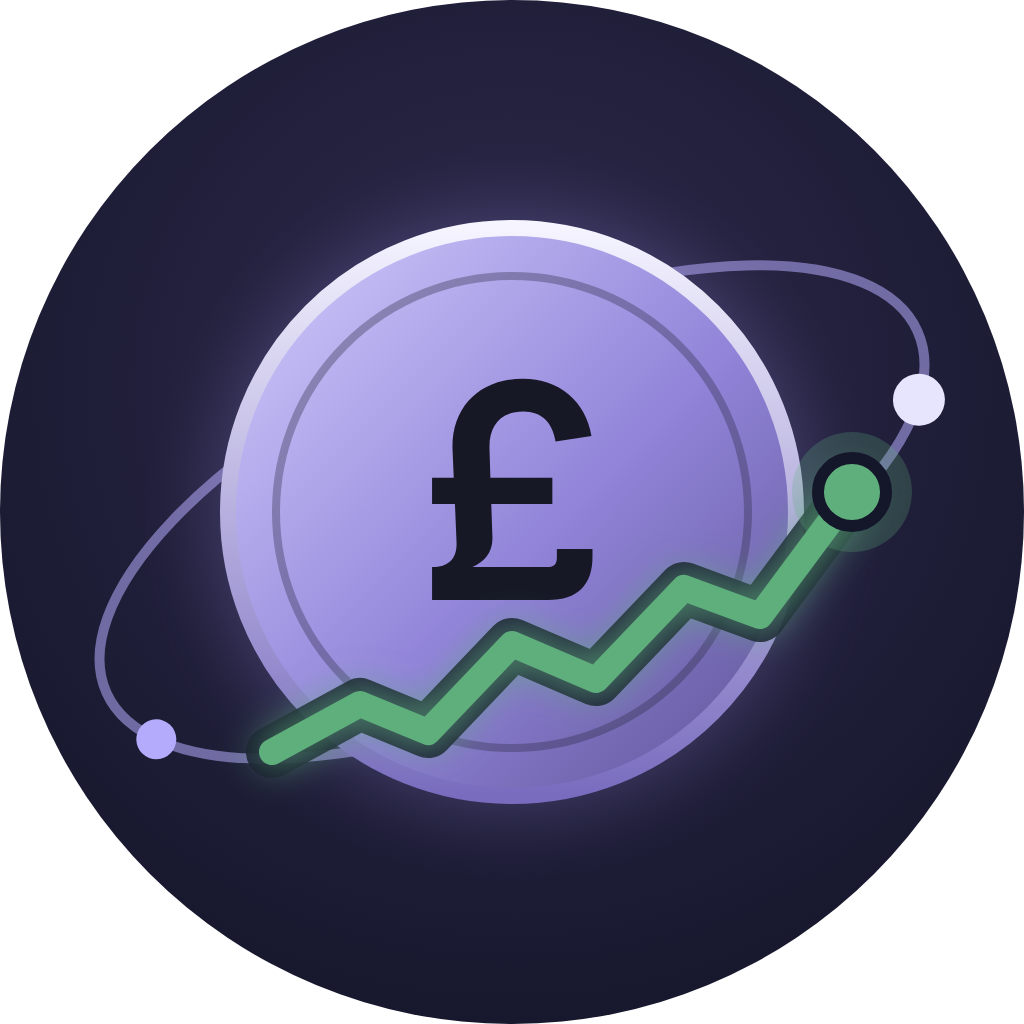
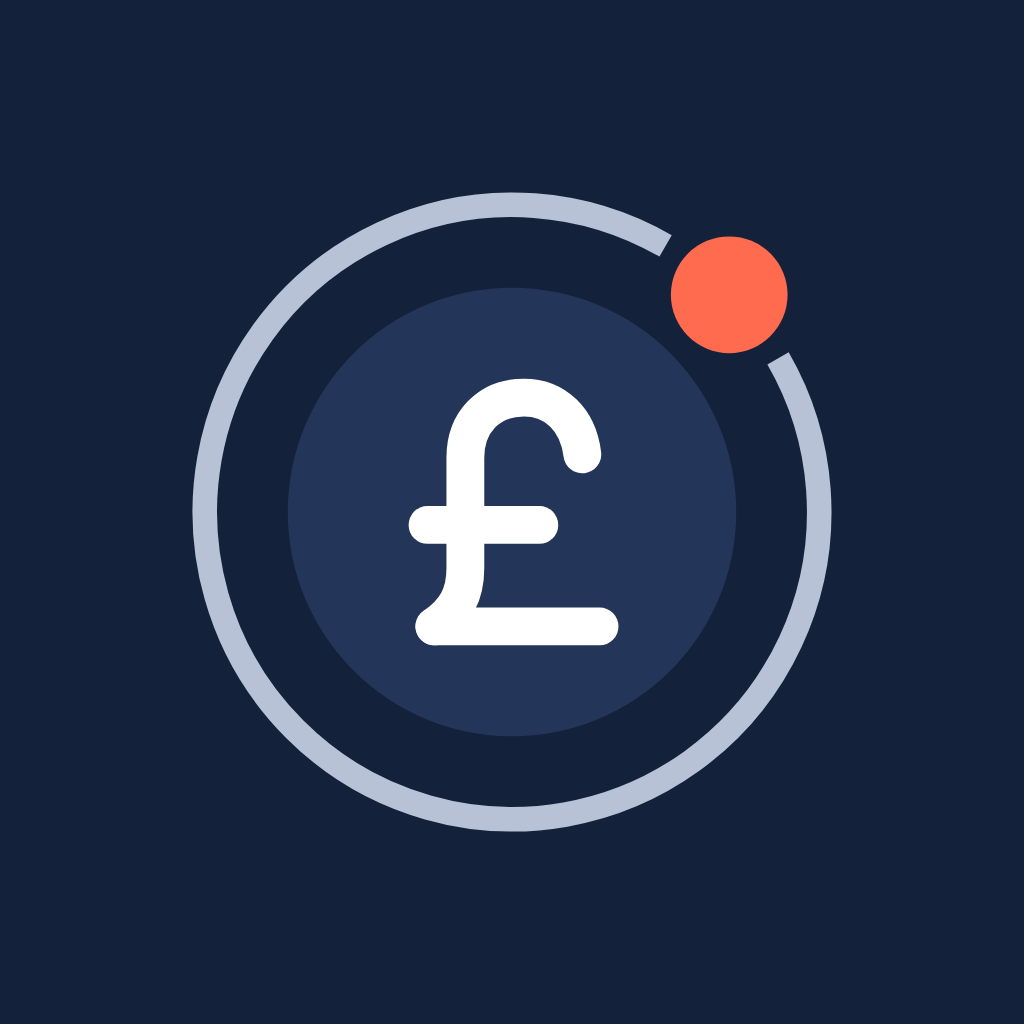
MA-103: 1c Watcher becomes the MyPaisa mark, animated on the README
docs/mark.svg and its dark, icon, small and animated versions replace the Nocturne mark; mark-1024/256/64.png are rendered from mark-icon.svg for the bot's Telegram picture; the README header plays the intro once (dark version under GitHub's dark theme). decision.md records the pick. The Claude Design screens carry the new mark.

diff --git a/README.md b/README.md
@@ -1,6 +1,9 @@
 <div align="center">
 
-<img src="docs/mark.svg" width="96" height="96" alt="The MyPaisa Agent mark">
+<picture>
+  <source media="(prefers-color-scheme: dark)" srcset="docs/mark-animated-dark.svg">
+  <img src="docs/mark-animated.svg" width="96" height="96" alt="The MyPaisa mark: a navy coin with a pound sign, a thin orbit around it, and one coral dot keeping watch">
+</picture>
 
 # MyPaisa Agent
 
@@ -89,7 +92,7 @@ Today: the three documents above and `docs/mark.svg`. After phase 1, by `PLAN.md
 | `tests/` | pytest: golden files for every signal, property tests for the FX split, moto for AWS, respx for HTTP, recorded Claude responses for rendering. |
 | `infra/terraform/` | Every AWS resource: the Lambdas and their image, the Scheduler rules, the DynamoDB table, the S3 bucket, SSM parameters, the IAM roles, the budget and the alarms; `envs/dev.tfvars`. |
 | `.github/workflows/` | `deploy.yml`: lint, typecheck, tests and `terraform plan` on every pull request; build, apply and deploy from `main` through OIDC. |
-| `docs/` | The mark: `mark.svg` for this page, `mark-1024.png` for the bot's Telegram picture (`/setuserpic` in BotFather), `mark-256.png` and `mark-64.png` for anywhere smaller. `docs/RESEARCH.md`, the research note. `docs/design/`, the three design pages as source: the animated architecture, the user journeys, and the dashboard artboards. |
+| `docs/` | The mark, "Watcher" (MA-103): `mark.svg` and `mark-dark.svg` for light and dark grounds, `mark-animated.svg` and `mark-animated-dark.svg` for this page (the intro plays once, and Reduce Motion shows the final frame), `mark-small.svg` for 32 px and below and the favicon, `mark-icon.svg` and `mark-1024.png` for the bot's Telegram picture (`/setuserpic` in BotFather), `mark-256.png` and `mark-64.png` for anywhere smaller. `docs/RESEARCH.md`, the research note. `docs/design/`, the three design pages as source: the animated architecture, the user journeys, and the dashboard artboards. |
 | `Dockerfile` | One container image for every Lambda, arm64, on the AWS Python 3.14 base, since pandas and matplotlib exceed the zip limit. |
 
 ## Models

diff --git a/docs/design/reviews/MA-103/decision.md b/docs/design/reviews/MA-103/decision.md
@@ -54,4 +54,10 @@ Motion. 32 and 16 px use a separate small cut with heavier strokes and fewer par
 
 ## The pick
 
-Pending: Arun to choose 1a, 1b, 1c or "none of these".
+**1c, Watcher.** Arun, 24 Oct 2026: "1c". Today's coin and £, with a thin orbit and one coral dot that travels
+two thirds of it once and comes to rest at half past one: the agent keeping watch. 1a and 1b stay on the Logo
+page, marked "Not picked".
+
+The pick replaces `docs/mark.svg` and its PNGs, and the coin in every Claude Design screen (the sidebar, the
+sign-in page, the bot's avatar in Telegram's chat list and header). The note against 1c, that its dot can read
+as an unread badge on a small round avatar, is checked again on the chat list once the new mark is in place.
